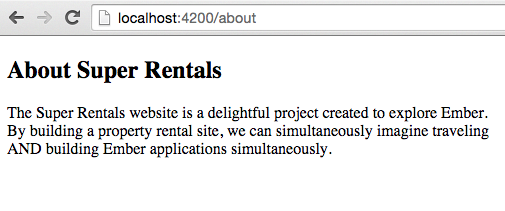
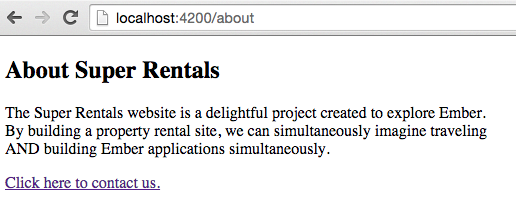
update routes-and-templates for about page

diff --git a/source/getting-started/routes-and-templates.md b/source/getting-started/routes-and-templates.md
@@ -115,7 +115,7 @@ Ember has built-in **helpers** that provide functionality such as linking to oth
 
 The helper takes an argument with the name of the route to link to, in this case, `contact`.  When we look at our about page, we now have a link to our contact page.
 
-<img src="../../images/routes-and-templates/ember-super-rentals-index.png" width="680"/>
+<img src="../../images/routes-and-templates/ember-super-rentals-about.png" width="680"/>
 
 Now, we'll add one to link to our about page so we can navigate from back and forth from `about` to `contact`.
 
@@ -152,7 +152,7 @@ installing route-test
   create tests/unit/routes/index-test.js
 ```
 
-Unlike the other route handlers we've made so far, the `index` route is special: it does NOT require an entry in the router's mapping, and you'll notice that the action of updating the router was not taken by the generator. We'll learn more about why the entry isn't required when we touch on nested routes. 
+Unlike the other route handlers we've made so far, the `index` route is special: it does NOT require an entry in the router's mapping, and you'll notice that the action of updating the router was not taken by the generator. We'll learn more about why the entry isn't required when we touch on nested routes.
 
 We can update our `index.hbs` with some HTML and we have our welcome home page and our links to the other routes in our application:
 
